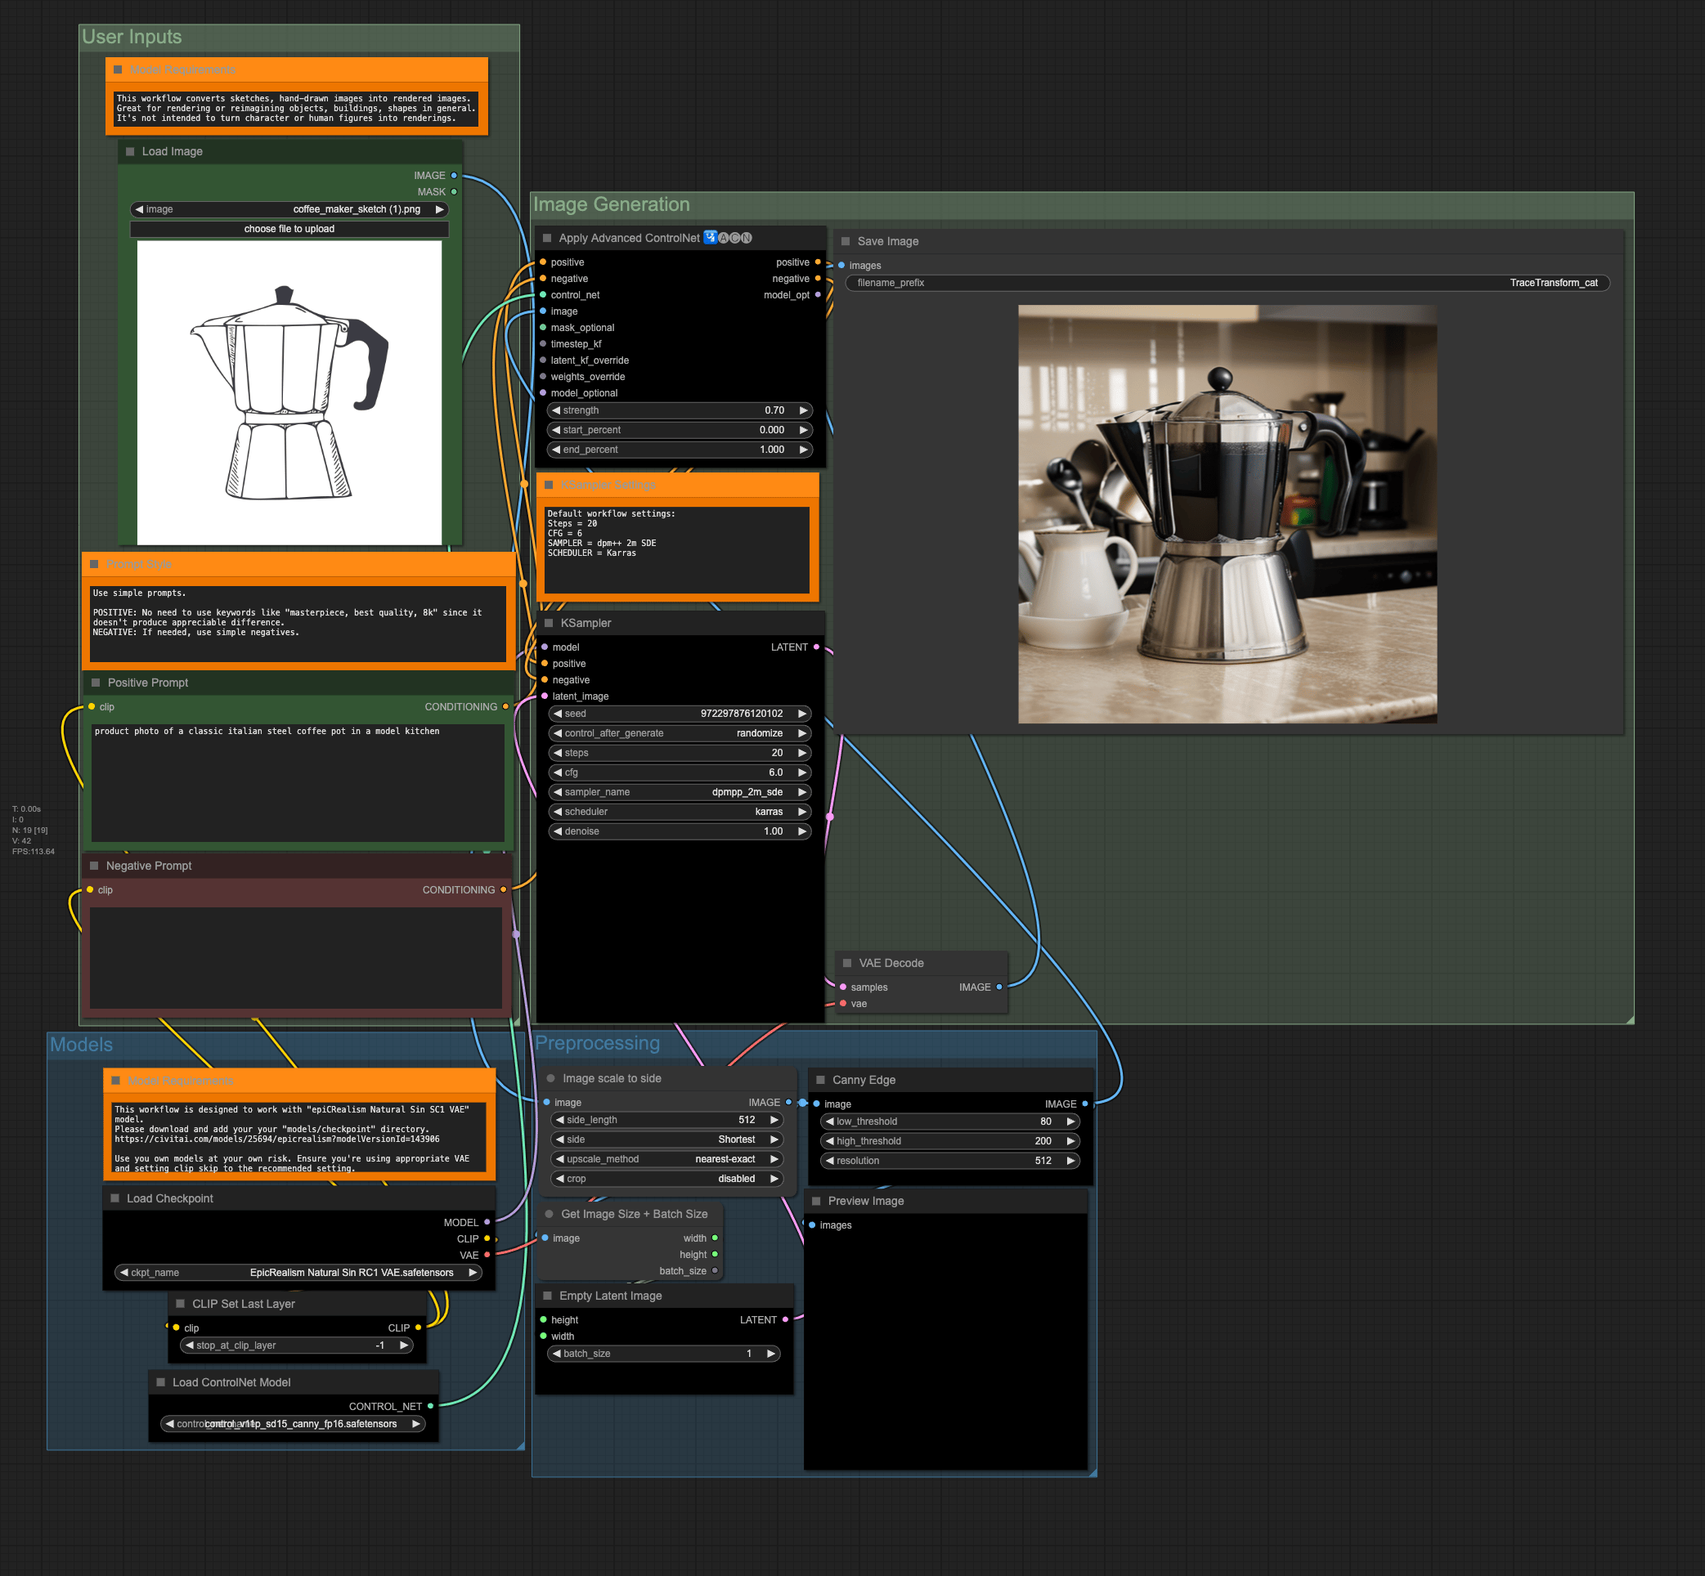
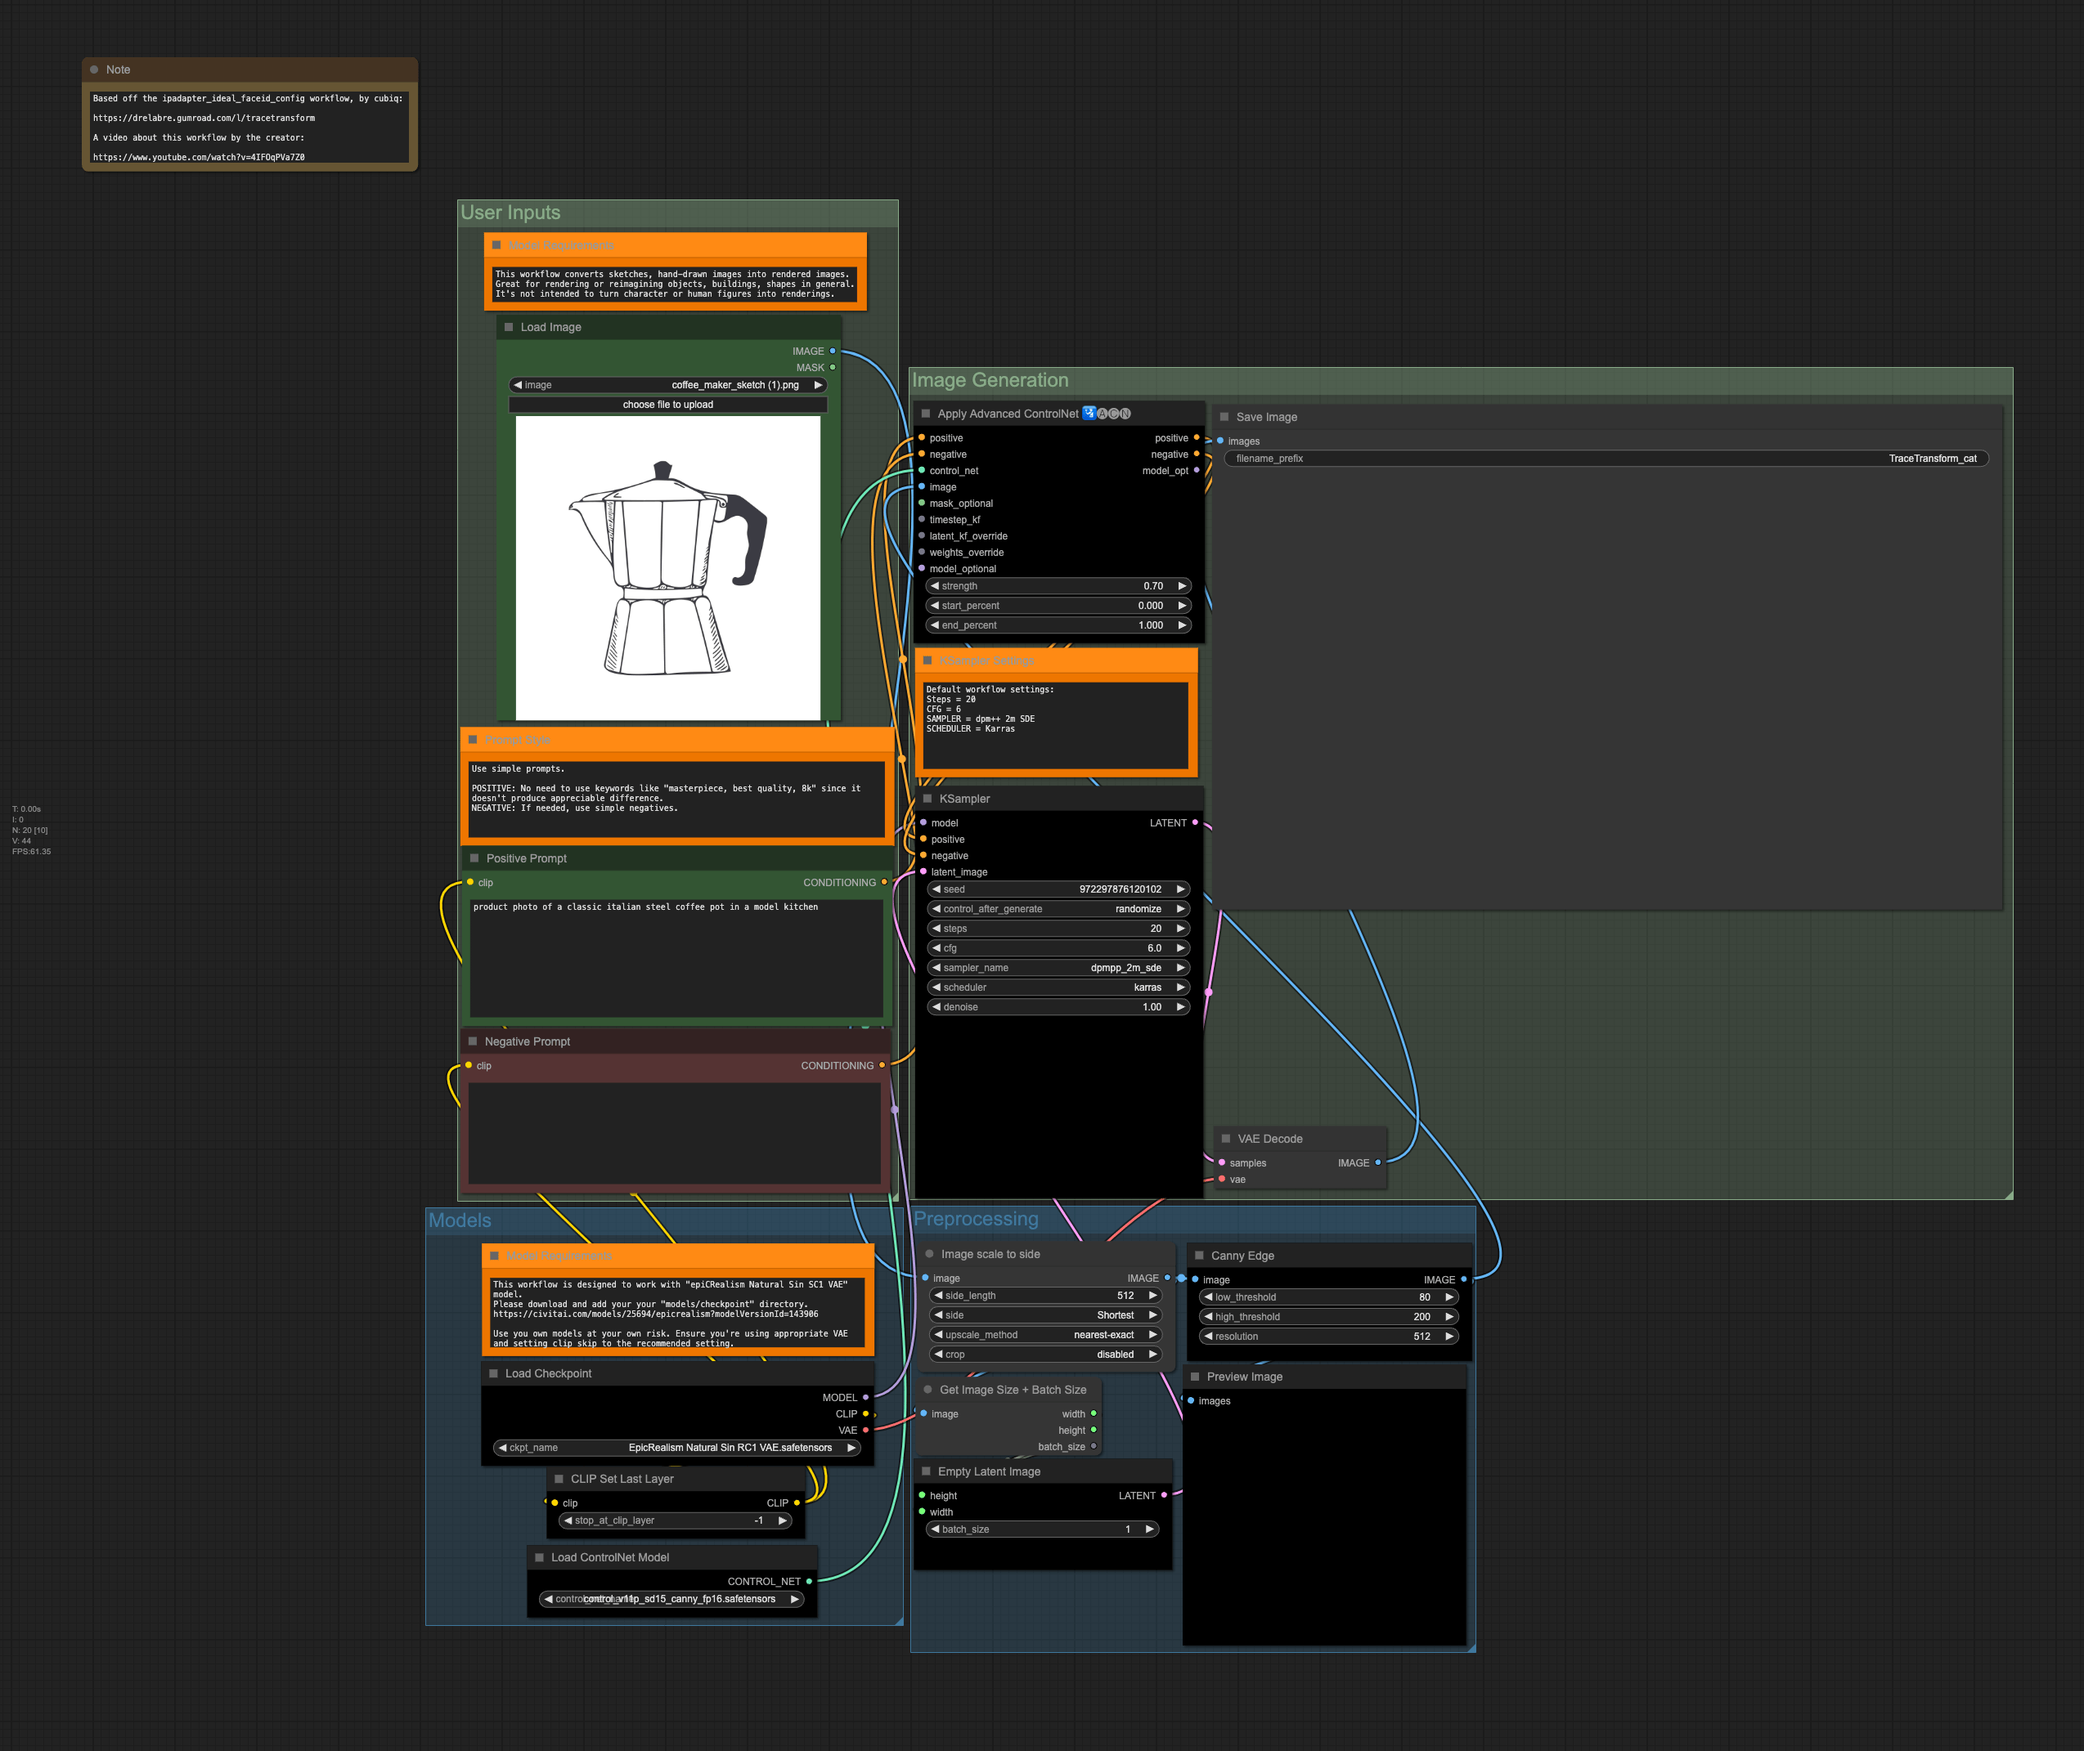
feat: update object trace flow

diff --git a/workflows/object_trace/Object Trace.md b/workflows/object_trace/Object Trace.md
@@ -1,7 +1,7 @@
 ---
 tags:
   - workflow
-repository: 
+repository: "https://drelabre.gumroad.com/l/tracetransform"
 nodes_used: 
 models_used:
   - "[[ControlNet Canny Edge]]"
@@ -15,7 +15,7 @@ models_used:
 
 # Resources
 
--
+- [Trace Transform](https://www.youtube.com/watch?v=4IFOqPVa7Z0)
 
 # Notes
 
